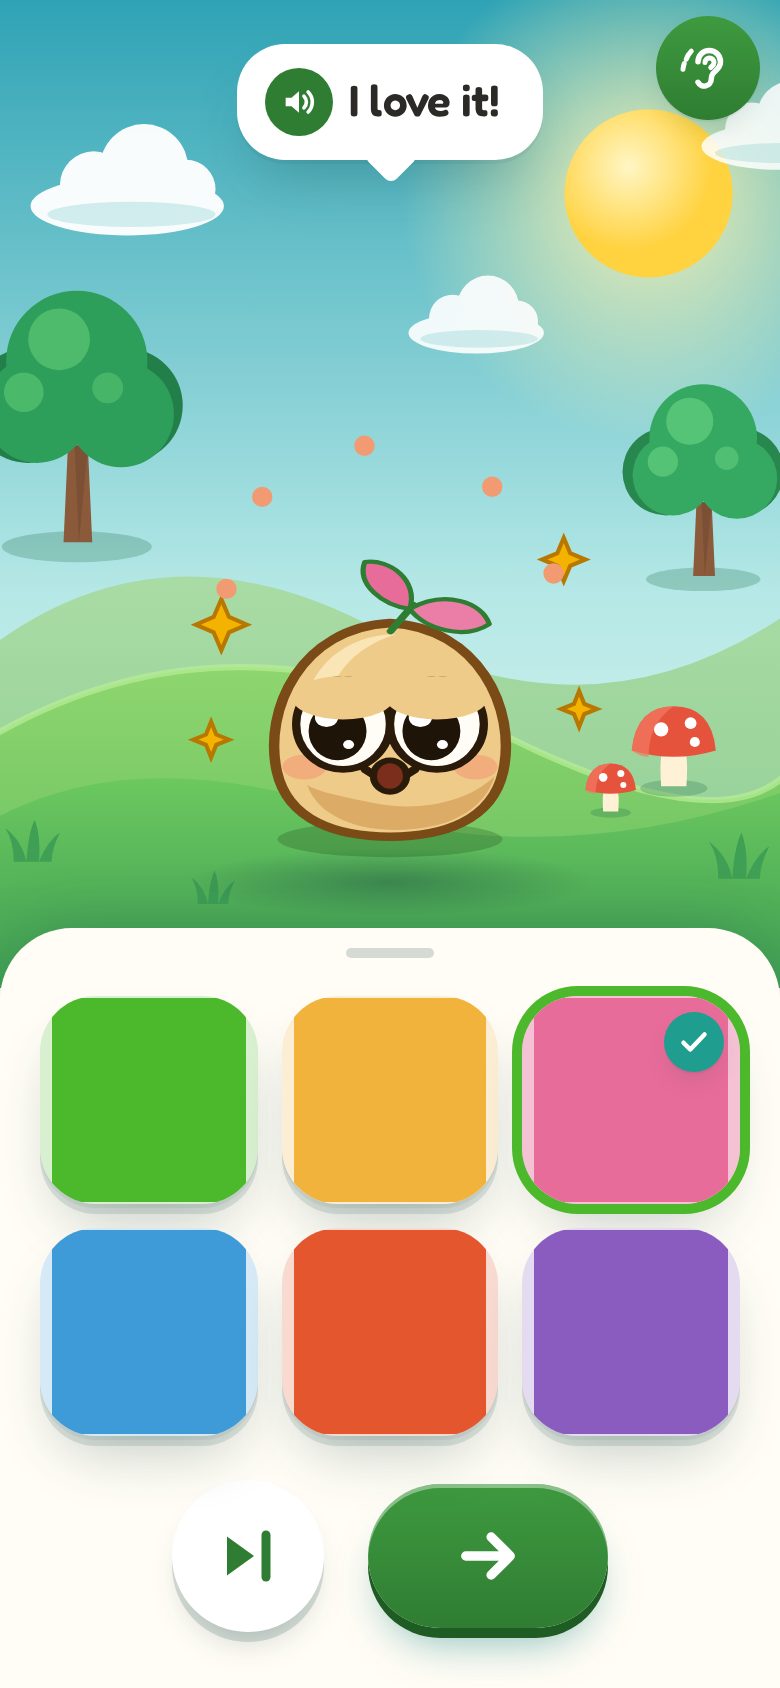
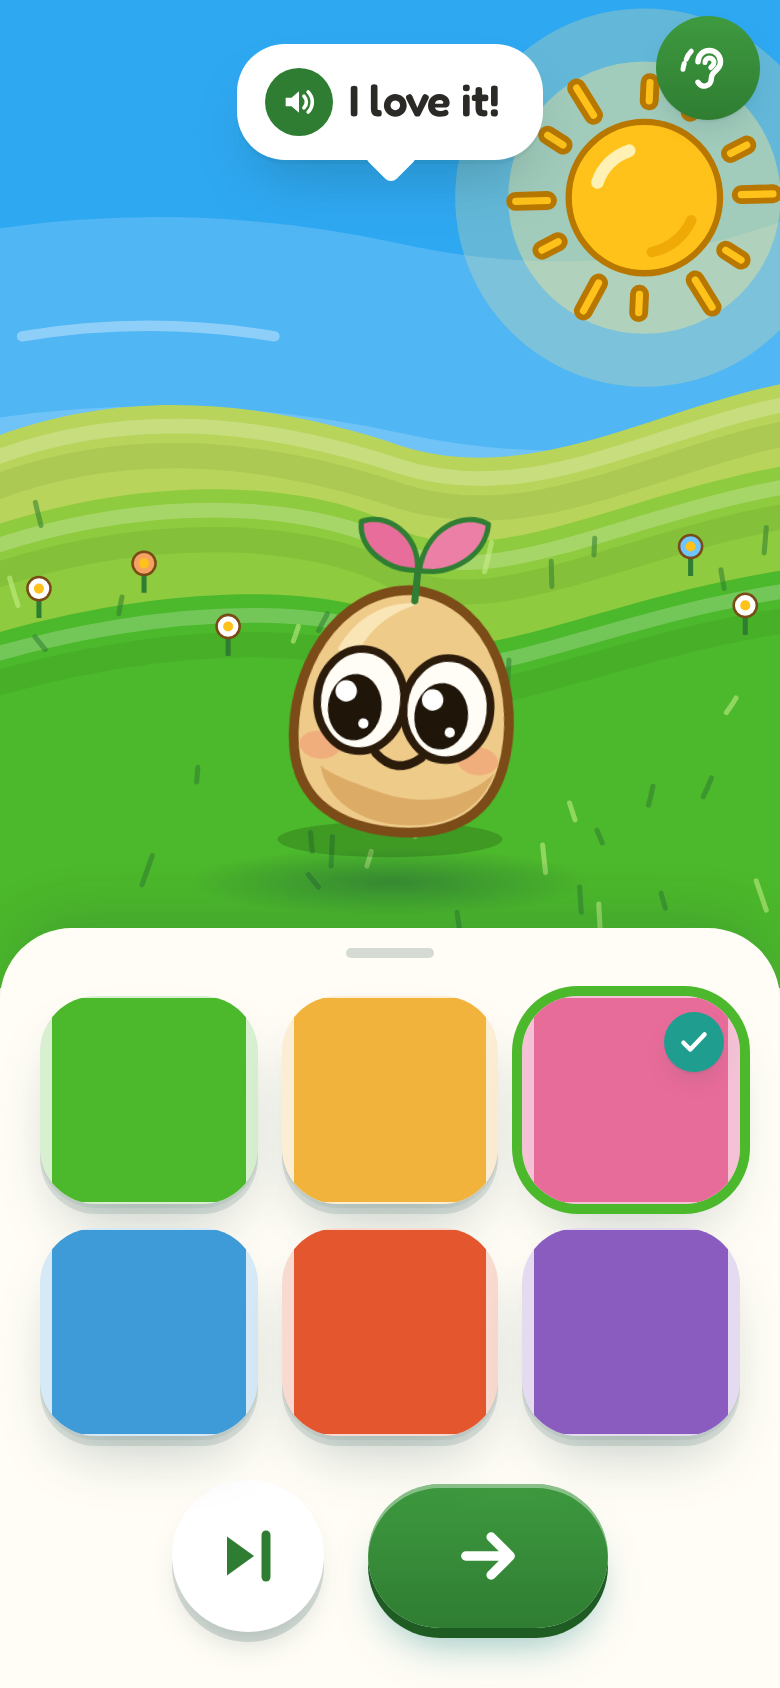
garden: growth stage, one-sound labels, calmer slots; ci gates; budget counts landing css only; critic tooling; untrack driver shots

diff --git a/so-overlay/garden-scene.js b/so-overlay/garden-scene.js
@@ -12,16 +12,16 @@ export const LEVEL_NAME = { 1: 'First sounds', 2: 'Sounds together', 3: 'Long vo
 // labels: the sound(s) a lesson teaches, from its sittings ('' = review or practice lesson, drawn with the speaker icon)
 export function lessonLabel(l) {
   const g = (l.sittings || []).flatMap(s => s.new || []);
-  return g.length ? [...new Set(g)].slice(0, 2).join('').replace(/_/g, '') : '';
+  return g.length ? g[0].replace(/_/g, '-') : '';   // one sound per plant: the first the lesson teaches (a_e shows as a-e)
 }
 
 // back row small, front row big. Lessons fill front to back, so the garden grows away from you.
 export function slots(n) {
-  const per = n <= 8 ? 4 : n <= 15 ? 5 : 6;
+  const per = n <= 8 ? 4 : 5;
   const rows = Math.ceil(n / per), out = [];
   for (let r = 0; r < rows; r++) {
     const t = rows === 1 ? 1 : r / (rows - 1);                        // 0 = front row, 1 = back row
-    const y = 452 - t * (rows > 3 ? 230 : 200), s = +(0.98 - t * 0.5).toFixed(2);
+    const y = 452 - t * (rows > 3 ? 230 : 200), s = +(0.9 - t * 0.42).toFixed(2);
     const inRow = Math.min(per, n - r * per);
     for (let i = 0; i < inRow; i++) {
       const span = 330, x = 30 + span * ((i + 0.5 + (r % 2 ? 0.28 : 0)) / (per + 0.28));
@@ -77,3 +77,6 @@ export function endPlant(lid, st, passed) {
   el.innerHTML = `${defs()}<svg viewBox="-60 -110 120 170" aria-hidden="true">${plant({ x: 0, y: 0, s: 1, stage, label: p.label, color: PLANT_COLORS[(parseInt(lid.slice(-2), 10) || 0) % PLANT_COLORS.length], hit: false })}</svg><p>${txt}</p>`;
   return el;
 }
+
+// Sprig grows as lessons are checked: seed-sprout (0-2), leafy (3-8), budding (9-19), blooming (20+). Never shrinks: lessons are never un-checked.
+export const growthStage = (prog) => { const n = Object.values(prog.lessons || {}).filter(x => x.state === 'checked').length; return n >= 20 ? 4 : n >= 9 ? 3 : n >= 3 ? 2 : 1; };

diff --git a/so/app/src/garden-scene.js b/so/app/src/garden-scene.js
@@ -12,16 +12,16 @@ export const LEVEL_NAME = { 1: 'First sounds', 2: 'Sounds together', 3: 'Long vo
 // labels: the sound(s) a lesson teaches, from its sittings ('' = review or practice lesson, drawn with the speaker icon)
 export function lessonLabel(l) {
   const g = (l.sittings || []).flatMap(s => s.new || []);
-  return g.length ? [...new Set(g)].slice(0, 2).join('').replace(/_/g, '') : '';
+  return g.length ? g[0].replace(/_/g, '-') : '';   // one sound per plant: the first the lesson teaches (a_e shows as a-e)
 }
 
 // back row small, front row big. Lessons fill front to back, so the garden grows away from you.
 export function slots(n) {
-  const per = n <= 8 ? 4 : n <= 15 ? 5 : 6;
+  const per = n <= 8 ? 4 : 5;
   const rows = Math.ceil(n / per), out = [];
   for (let r = 0; r < rows; r++) {
     const t = rows === 1 ? 1 : r / (rows - 1);                        // 0 = front row, 1 = back row
-    const y = 452 - t * (rows > 3 ? 230 : 200), s = +(0.98 - t * 0.5).toFixed(2);
+    const y = 452 - t * (rows > 3 ? 230 : 200), s = +(0.9 - t * 0.42).toFixed(2);
     const inRow = Math.min(per, n - r * per);
     for (let i = 0; i < inRow; i++) {
       const span = 330, x = 30 + span * ((i + 0.5 + (r % 2 ? 0.28 : 0)) / (per + 0.28));
@@ -77,3 +77,6 @@ export function endPlant(lid, st, passed) {
   el.innerHTML = `${defs()}<svg viewBox="-60 -110 120 170" aria-hidden="true">${plant({ x: 0, y: 0, s: 1, stage, label: p.label, color: PLANT_COLORS[(parseInt(lid.slice(-2), 10) || 0) % PLANT_COLORS.length], hit: false })}</svg><p>${txt}</p>`;
   return el;
 }
+
+// Sprig grows as lessons are checked: seed-sprout (0-2), leafy (3-8), budding (9-19), blooming (20+). Never shrinks: lessons are never un-checked.
+export const growthStage = (prog) => { const n = Object.values(prog.lessons || {}).filter(x => x.state === 'checked').length; return n >= 20 ? 4 : n >= 9 ? 3 : n >= 3 ? 2 : 1; };

diff --git a/src/art/art.js b/src/art/art.js
@@ -66,7 +66,7 @@ export const defs = () => `<svg width="0" height="0" style="position:absolute" a
 export const PLANT_COLORS = ['#FFC21A', '#4FA3E8', '#FFFDF6', '#F29B73', '#B06AD6', '#E4572E', '#FFD84A', '#7AD3C4', '#F78FB3', '#9BE06E', '#C98CF0', '#F4A261'];
 // One plant: wood box with stake letter, soil lip, stage symbol. stage 1-4, or 'zz' (dozing). label '' = sound icon.
 export function plant({ x, y, s = 1, stage = 1, label = '', color, id, glow = false, ring = false, hit = true }) {
-  const t = label ? `<text x="0" y="31" text-anchor="middle" font-family="system-ui,sans-serif" font-weight="800" font-size="${label.length > 1 ? 24 : 32}" fill="#12330F">${label}</text>` : '<g color="#12330F" transform="translate(-13 6)"><use href="#spk" width="26" height="26"/></g>';
+  const t = label ? `<text x="0" y="31" text-anchor="middle" font-family="system-ui,sans-serif" font-weight="800" font-size="${label.length > 2 ? 17 : label.length > 1 ? 24 : 32}" fill="#12330F">${label}</text>` : '<g color="#12330F" transform="translate(-13 6)"><use href="#spk" width="26" height="26"/></g>';
   return `<g class="pl${glow ? ' glow' : ''}" data-plant="${id}" data-stage="${stage}" ${hit ? 'tabindex="0" role="button"' : ''} aria-label="${label || 'First sound'} plant, ${stage === 'zz' ? 'resting' : 'stage ' + stage}" style="--pc:${color || PLANT_COLORS[0]}" transform="translate(${x} ${y}) scale(${s})">
 <g class="pi"><ellipse cx="0" cy="48" rx="34" ry="6" fill="#12330F" opacity=".2"/>${glow || ring ? `<ellipse class="gl" cx="0" cy="-8" rx="50" ry="62" fill="#FFE98F" opacity="${ring ? .5 : 0}"/>` : ''}
 <use href="#pl${stage === 'zz' ? 'z' : stage}" x="-40" y="-80" width="80" height="80"/>

diff --git a/so-overlay/home.js b/so-overlay/home.js
@@ -15,7 +15,7 @@ import { wait, isFast, mark } from './audio.js';
 import { avatarById } from './avatars.js';
 import { applyLook } from './tilo-look.js';
 import { skyKind } from './homescene.js';
-import { gardenYard, plotsFor, LEVEL_NAME as GARDEN_LEVEL, lessonLabel } from './garden-scene.js';
+import { growthStage, gardenYard, plotsFor, LEVEL_NAME as GARDEN_LEVEL, lessonLabel } from './garden-scene.js';
 import { play } from './audio.js';
 import './living.css';
 import './bhome.css';
@@ -151,7 +151,7 @@ export async function home(app, profile) {
   app.mount(s);
   if (track === 'A') {
     const slot = s.querySelector('.scene-tilo .tilo-slot');
-    tilo.dock(slot); applyLook(profile.tiloLook?.scarf); tilo.setStage(Math.min(4, 1 + Math.floor(Object.values(prog.lessons || {}).filter(x => x.state === 'checked').length / 3))); tilo.arrive(); if (newItems && !isCalm()) tilo.emote('celebrating', null, 1700);
+    tilo.dock(slot); applyLook(profile.tiloLook?.scarf); tilo.setStage(growthStage(prog)); tilo.arrive(); if (newItems && !isCalm()) tilo.emote('celebrating', null, 1700);
   }
   if (animate) unlockSequence(s, st, fresh, track);
   if (track === 'B') { const c = s.querySelector('.b-hero .count'); if (c) countUp(c, readWords(prog).length, 700); }

diff --git a/so/app/src/home.js b/so/app/src/home.js
@@ -15,7 +15,7 @@ import { wait, isFast, mark } from './audio.js';
 import { avatarById } from './avatars.js';
 import { applyLook } from './tilo-look.js';
 import { skyKind } from './homescene.js';
-import { gardenYard, plotsFor, LEVEL_NAME as GARDEN_LEVEL, lessonLabel } from './garden-scene.js';
+import { growthStage, gardenYard, plotsFor, LEVEL_NAME as GARDEN_LEVEL, lessonLabel } from './garden-scene.js';
 import { play } from './audio.js';
 import './living.css';
 import './bhome.css';
@@ -151,7 +151,7 @@ export async function home(app, profile) {
   app.mount(s);
   if (track === 'A') {
     const slot = s.querySelector('.scene-tilo .tilo-slot');
-    tilo.dock(slot); applyLook(profile.tiloLook?.scarf); tilo.setStage(Math.min(4, 1 + Math.floor(Object.values(prog.lessons || {}).filter(x => x.state === 'checked').length / 3))); tilo.arrive(); if (newItems && !isCalm()) tilo.emote('celebrating', null, 1700);
+    tilo.dock(slot); applyLook(profile.tiloLook?.scarf); tilo.setStage(growthStage(prog)); tilo.arrive(); if (newItems && !isCalm()) tilo.emote('celebrating', null, 1700);
   }
   if (animate) unlockSequence(s, st, fresh, track);
   if (track === 'B') { const c = s.querySelector('.b-hero .count'); if (c) countUp(c, readWords(prog).length, 700); }

diff --git a/so-overlay/main.js b/so-overlay/main.js
@@ -8,6 +8,7 @@ import { stop } from './audio.js';
 import { initNative } from './native.js';
 import { teacher } from './teacher.js';
 import { tilo } from './tilo.js';
+import { growthStage } from './garden-scene.js';
 import { privacyScreen } from './privacy.js';
 import { guideHub, guideSection } from './guide.js';
 import { initMotion } from './motion.js';
@@ -43,6 +44,7 @@ const app = {
     profile = id ? await db.get('profiles', id) : null;
     if (!profile) { tilo.setTrack(null); return onboarding(app); }
     teacher.track(profile.track);
+    tilo.setStage(growthStage(await db.progress(profile.id)));
     const d = app.deep; app.deep = null;
     if (d?.lesson) { const k = states(await db.progress(profile.id), profile.track).find(x => x.lessonId === d.lesson && x.state === 'open'); if (k) return app.sitting(k.key); }
     if (d?.screen === 'practice') return app.practice();

diff --git a/so/app/src/main.js b/so/app/src/main.js
@@ -8,6 +8,7 @@ import { stop } from './audio.js';
 import { initNative } from './native.js';
 import { teacher } from './teacher.js';
 import { tilo } from './tilo.js';
+import { growthStage } from './garden-scene.js';
 import { privacyScreen } from './privacy.js';
 import { guideHub, guideSection } from './guide.js';
 import { initMotion } from './motion.js';
@@ -43,6 +44,7 @@ const app = {
     profile = id ? await db.get('profiles', id) : null;
     if (!profile) { tilo.setTrack(null); return onboarding(app); }
     teacher.track(profile.track);
+    tilo.setStage(growthStage(await db.progress(profile.id)));
     const d = app.deep; app.deep = null;
     if (d?.lesson) { const k = states(await db.progress(profile.id), profile.track).find(x => x.lessonId === d.lesson && x.state === 'open'); if (k) return app.sitting(k.key); }
     if (d?.screen === 'practice') return app.practice();

diff --git a/tools/slice_pairs.py b/tools/slice_pairs.py
@@ -1,0 +1,33 @@
+#!/usr/bin/env python3
+"""python3 tools/slice_pairs.py SLICE ROUND -> builds /tmp/sgcrit/<slice>_r<round>/ pairs of Sound Garden screens vs Sound Out's current screens."""
+import sys, re, glob, subprocess, pathlib
+H = pathlib.Path.home() / 'Documents/free_work'
+SG = H / 'sound-garden-port/tools/so-compat/app/shots'; SHOT = pathlib.Path('/tmp/sgshots'); SO = H / 'sound-out/app/shots'
+def so_like(name):
+    core = re.sub(r'^[AB]_\d+_', '', name)
+    c = [f for f in sorted(SO.glob(f'A_*_{core}')) if re.match(r'A_\d+_', f.name)]
+    return c[-1] if c else None
+def sg(core): 
+    c = sorted(SG.glob(f'A_*_{core}.png')); return c[-1] if c else None
+slices = {
+ 'teach': [('who-is-reading', 'hear-A_new_sound', 'hear-Your_turn', 'meet-This_letter_makes_that_s', 'trace-Trace_the_letter', 'blend-Blend_it', 'gate-1-options', 'gate-2-repair', 'end-A', 'read-Read_it', 'check-Show_what_you_know', 'end-X', 'tricky-Tricky_word')],
+}
+sel = sys.argv[1]; rnd = sys.argv[2]; out = pathlib.Path(f'/tmp/sgcrit/{sel}_r{rnd}')
+pairs = []
+if sel == 'teach':
+    for core in slices['teach'][0]:
+        a = sg(core + ''); b = so_like(f'A_00_{core}.png')
+        if a and b: pairs.append(f'{a}={b}')
+        else: print('no pair for', core, a, b)
+    pairs.append(f'{SHOT}/home1.png={SO}/A_12_home.png')
+elif sel == 'practice':
+    pairs = [f'{SHOT}/practiceA.png={SO}/practice/A_2_hub.png', f'{SHOT}/traceA.png={SO}/practice/A_3_trace.png', f'{SHOT}/practiceB.png={SO}/practice/B_2_hub.png']
+elif sel == 'sayit':
+    pairs = [f'{SHOT}/sayitA.png={H}/sound-out/docs/screenshots/31_sayit.jpg']
+elif sel == 'pdf':
+    pairs = [f'{SHOT}/teach.png={H}/sound-out/plan/guide-teach/shots/p-1.png']
+elif sel == 'onboard':
+    pairs = [f'{SG}/A_01_who-is-reading.png={H}/sound-out/docs/screenshots/02_who.jpg', f'{SG}/A_03_look.png={H}/sound-out/docs/screenshots/04_tilo_colour.jpg', f'{SG}/A_11_done.png={H}/sound-out/docs/screenshots/06_celebration.jpg', f'{SHOT}/home0.png={H}/sound-out/docs/screenshots/08_home.jpg']
+elif sel == 'garden':
+    pairs = [f'{SHOT}/home2.png={H}/sound-out/docs/screenshots/09_garden.jpg', f'{SHOT}/homeB.png={H}/sound-out/docs/screenshots/23_b_home.jpg', f'{SHOT}/end1.png={SO}/A_17_end-A.png']
+subprocess.run([sys.executable, str(H / 'sound-garden-port/tools/critic_pairs.py'), str(out), *pairs], check=True)

diff --git a/tools/critic_pairs.py b/tools/critic_pairs.py
@@ -1,0 +1,34 @@
+#!/usr/bin/env python3
+"""Build blind side-by-side pairs for the critics.
+  python3 tools/critic_pairs.py OUTDIR  ours1.png=theirs1.png  ours2.png=theirs2.png ...
+Writes OUTDIR/order1/pair_NN.png (A = ours, B = Sound Out) and OUTDIR/order2/pair_NN.png (A = Sound Out, B = ours), labels are just 'A' and 'B',
+plus OUTDIR/key.json (which side is ours in which order, never shown to the critic) and OUTDIR/bar.png (a contact sheet of the look references)."""
+import sys, json, pathlib
+from PIL import Image, ImageDraw, ImageFont
+out = pathlib.Path(sys.argv[1]); pairs = [a.split('=') for a in sys.argv[2:]]
+H = 760
+def fit(f):
+    im = Image.open(f).convert('RGB'); return im.resize((int(im.width * H / im.height), H))
+def side(l, r):
+    a, b = fit(l), fit(r); W = a.width + b.width + 60
+    s = Image.new('RGB', (W, H + 50), 'white'); d = ImageDraw.Draw(s)
+    s.paste(a, (20, 40)); s.paste(b, (40 + a.width, 40))
+    d.text((20, 10), 'A', fill='black'); d.text((40 + a.width, 10), 'B', fill='black'); return s
+key = {}
+for o in (1, 2):
+    (out / f'order{o}').mkdir(parents=True, exist_ok=True)
+    for i, (ours, theirs) in enumerate(pairs, 1):
+        side(*( (ours, theirs) if o == 1 else (theirs, ours) )).save(out / f'order{o}' / f'pair_{i:02d}.png')
+        key[f'order{o}/pair_{i:02d}'] = {'ours': 'A' if o == 1 else 'B', 'names': [ours, theirs]}
+(out / 'key.json').write_text(json.dumps(key, indent=1))
+refs = pathlib.Path.home() / 'Documents/free_work/sound-out/plan/design/research/refs'
+files = [refs / d / f'shot{n}.jpg' for d in ('finch', 'duolingo', 'teach-your-monster') for n in (1, 2, 3, 4)]
+tiles = [Image.open(f).convert('RGB') for f in files if f.exists()]
+h = 520; tiles = [t.resize((int(t.width * h / t.height), h)) for t in tiles]
+W = sum(t.width for t in tiles[:4]) + 50
+sheet = Image.new('RGB', (W, h * 3 + 40), 'white'); y = 10
+for r in range(3):
+    x = 10
+    for t in tiles[r * 4:(r + 1) * 4]: sheet.paste(t, (x, y)); x += t.width + 10
+    y += h + 10
+sheet.save(out / 'bar.png'); print('pairs', len(pairs), '->', out)

diff --git a/tools/sync_sound_out.py b/tools/sync_sound_out.py
@@ -77,6 +77,18 @@ PATCH_LIST = [
     ('privacy.js', "'Sound Out works completely offline.", "'Sound Garden works offline once it has loaded.", ),
 ]
 
+import hashlib
+REPLACED = ['main.js', 'home.js', 'tilo.js', 'tilo-look.js']      # upstream files whose whole content an overlay file replaces
+def sha(p): return hashlib.sha1(pathlib.Path(p).read_bytes()).hexdigest()[:12]
+def upstream_check(record=False):
+    f = ROOT / 'so-overlay/UPSTREAM.json'; cur = {n: sha(SO / 'app/src' / n) for n in REPLACED}
+    if record: f.write_text(json.dumps(cur, indent=1)); print('recorded upstream hashes'); return
+    old = json.loads(f.read_text()) if f.exists() else {}
+    for n in REPLACED:
+        if old.get(n) != cur[n]: print(f'WARNING: Sound Out changed app/src/{n} since so-overlay/{n} was written: diff them and port the change, then run --record')
+
 if __name__ == '__main__':
+    if '--record' in sys.argv: upstream_check(record=True); sys.exit(0)
+    if '--pull' in sys.argv: upstream_check()
     if '--pull' in sys.argv: pull()
     apply()

diff --git a/tools/shoot_misc.py b/tools/shoot_misc.py
@@ -1,0 +1,14 @@
+import sys, time; sys.path.insert(0, 'tools')
+from sg_lib import *
+from playwright.sync_api import sync_playwright
+with sync_playwright() as p:
+    pg, errs = app(p, "A"); seed_to(pg, "L1.05")
+    pg.evaluate("window.__so.app.practice()"); pg.wait_for_selector(".ph"); time.sleep(0.8); shot(pg, "practiceA")
+    pg.click(".ph-act[data-act=trace]"); pg.wait_for_selector("canvas.trace"); time.sleep(0.8); shot(pg, "traceA")
+    pg.evaluate("window.__so.app.sayIt()"); pg.wait_for_selector(".sayit"); time.sleep(1.0); shot(pg, "sayitA")
+    pg.evaluate("window.__so.app.grownups()"); time.sleep(1.0); shot(pg, "gate")
+    print(errs[:3])
+    pg2, e2 = app(p, "B"); seed_to(pg2, "L1.05")
+    pg2.evaluate("window.__so.app.practice()"); pg2.wait_for_selector(".ph"); time.sleep(0.8); shot(pg2, "practiceB")
+    pg2.evaluate("window.__so.app.sayIt()"); pg2.wait_for_selector(".sayit"); time.sleep(1.0); shot(pg2, "sayitB")
+    print(e2[:3])

diff --git a/tools/shoot_home.py b/tools/shoot_home.py
@@ -3,6 +3,8 @@ from sg_lib import *
 from playwright.sync_api import sync_playwright
 with sync_playwright() as p:
     pg, errs = app(p, "A")
-    shot(pg, "home0"); seed_to(pg, "L1.05"); shot(pg, "home1"); shot(pg, "home1full", full=True)
-    seed_to(pg, "L2.04"); shot(pg, "home2")
+    shot(pg, "home0"); seed_to(pg, "L1.05"); shot(pg, "home1")
+    seed_to(pg, "L2.07"); shot(pg, "home2"); seed_to(pg, "L3.10"); shot(pg, "home3")
+    pg.evaluate("window.__so.gardenLevel = 2"); home(pg); shot(pg, "home3-lv2")
     print(errs[:4])
+    pg2, e2 = app(p, "B"); seed_to(pg2, "L1.05"); shot(pg2, "homeB"); shot(pg2, "homeBfull", full=True); print(e2[:3])
